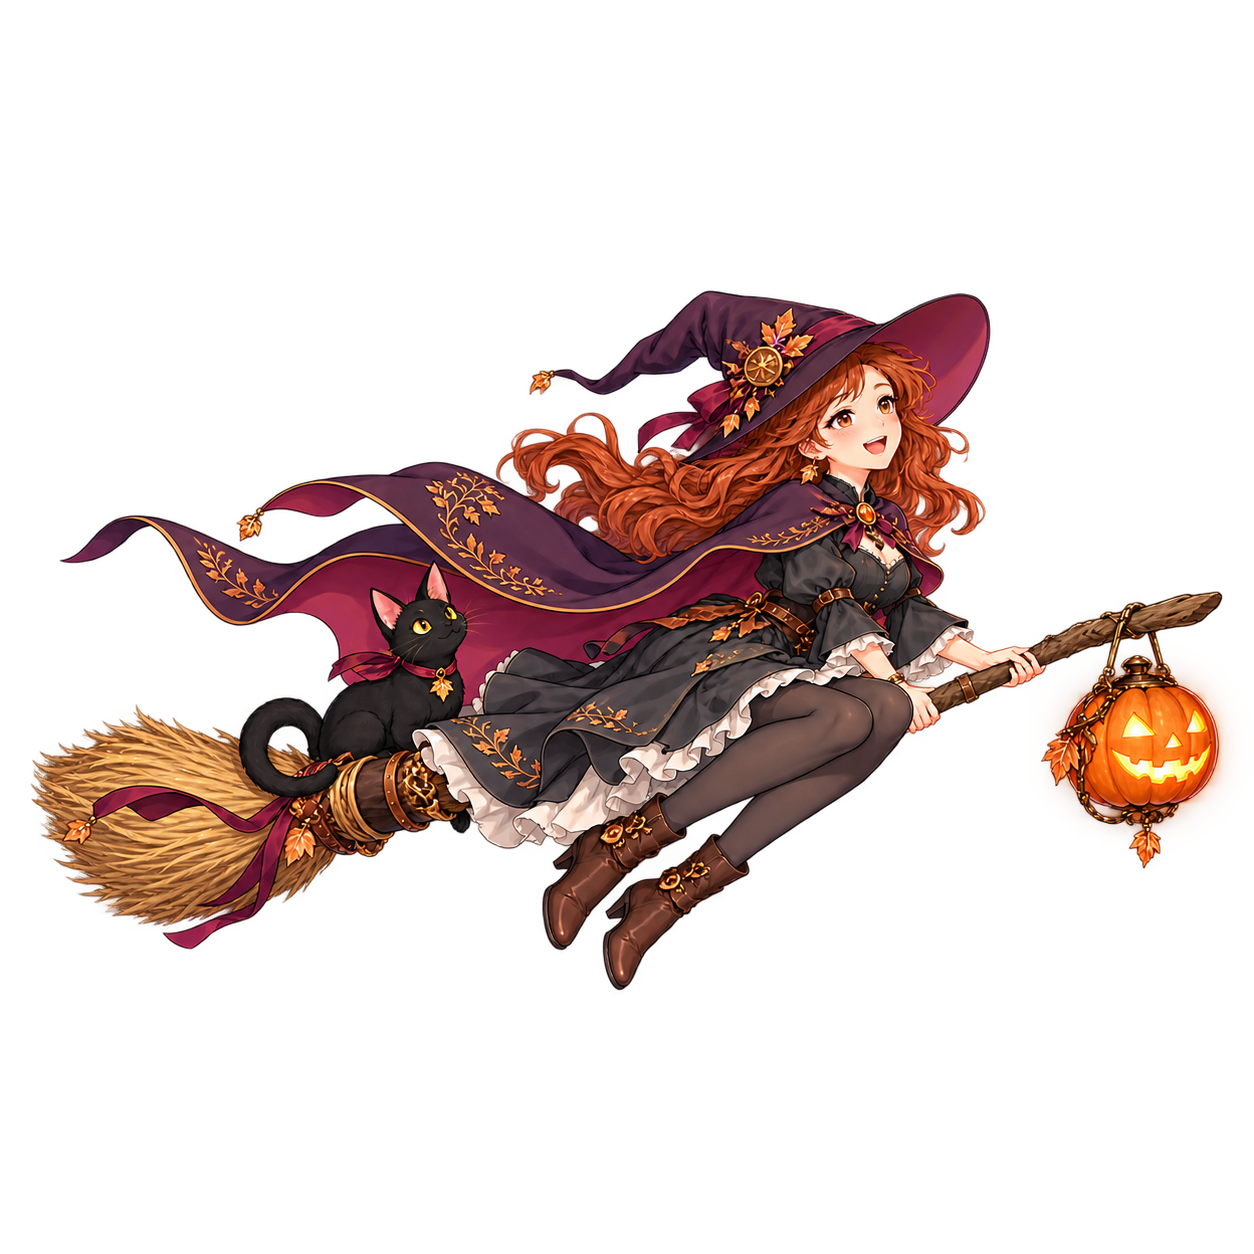
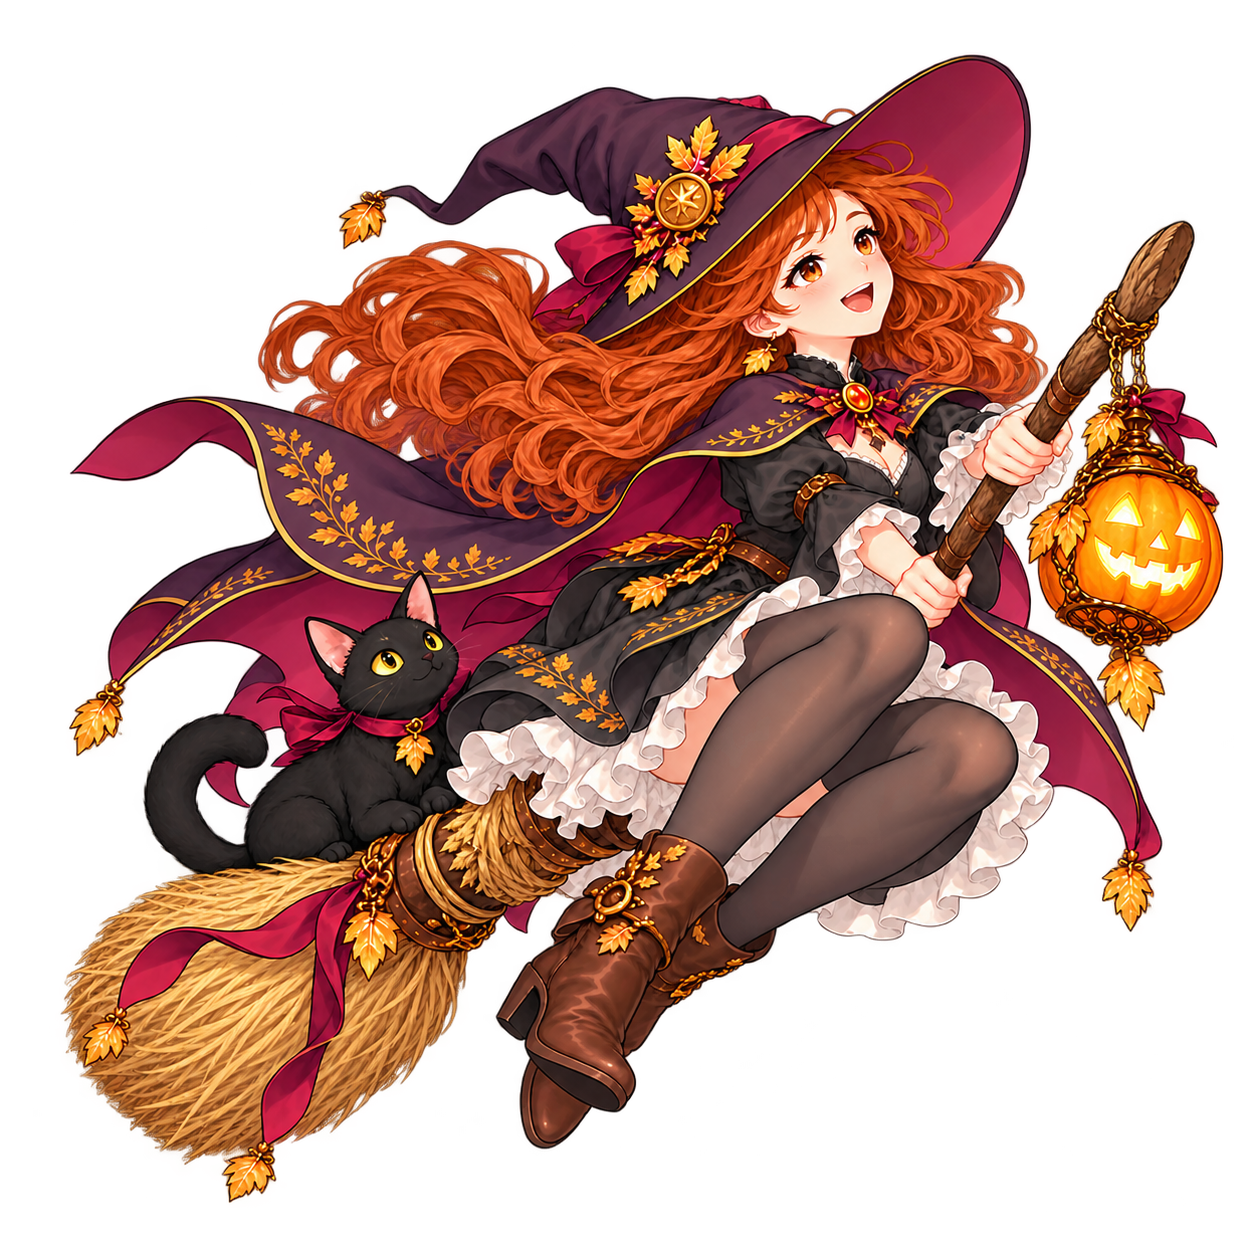
fix: redraw Halloween startup artwork for compact framing (#100)

diff --git a/src/halloween-lantern-walk/DESIGN.md b/src/halloween-lantern-walk/DESIGN.md
@@ -1,11 +1,13 @@
 # Halloween Lantern Walk
 
-Version 1.0.1. A cheerful adult witch rides a broom with a black cat and hanging pumpkin lantern. Flowing plum cloth and warm pumpkin light make a connected Halloween action scene. Refined two-dimensional anime illustration, drawn contours and painted/cel-shaded color.
+Version 1.0.2. The Home broom-riding witch and autumn wallpapers are retained. A separate compact, foreshortened broom pose now serves launch/empty. Its nearly square silhouette uses the startup box more effectively than the previous horizontal Home-style illustration; the complete hat, lantern, cat and boots remain inside the transparent canvas.
 
-Home uses a square transparent contain-fit vignette. Actual alpha bounds at 10% threshold: `993x581+143+269` on `1254x1254`. All solid subjects end before 68% of the image height, ahead of the native cover bottom feather. Top and side padding protect the hat, cape, pumpkin, reindeer and sleigh. Launch and empty states use the complete, larger square drawing. Both widths and both modes explicitly declare these assets; only the character-free wallpaper is cover-cropped.
+Launch uses explicit compact/regular contain declarations in both modes. The App startup resolver selects the asset URI and uses its own contain box, so the composition and alpha padding are authored in the actual image rather than relying on focalPoint to repair it. Measured 10% alpha bounds: `1164x1149+60+54` on `1254x1254`.
 
-Home title/logo are hidden. Light/dark × compact/regular composer background and decoration are null. Interface and terminal fill opacity remain 1. Palette, materials and all eight template glyphs remain unchanged; parameters has an independent adjustment icon.
+Home remains the existing safe-margin square contain image in both widths and modes; its bytes are unchanged. No ambient effect is added.
+
+Home title/logo remain hidden; composer background and decoration resolve to null in light/dark × compact/regular. No outset is authored. UI and terminal fill opacity stay 1. Eight template icons, independent parameters shape and icon directions are unchanged.
 
 ## Review coverage
 
-Source artwork, actual alpha margins and gallery covers were visually inspected. CLI 2.4.1 source/preview validation and packaging are checked separately. No device automation or mobile-dev was used for this revision; native layout and keyboard coverage are not claimed.
+Dedicated launch images and source Home paintings were visually inspected. Small 200px light/dark launch composites and compact/regular cover crops are source-art review, not native screenshots. CLI validation, contrast and full source packaging are checked separately. No mobile-dev, native device automation or native transition/keyboard acceptance is claimed.

diff --git a/src/halloween-lantern-walk/PROMPTS.md b/src/halloween-lantern-walk/PROMPTS.md
@@ -32,3 +32,15 @@ Use case: lighting-weather. Input image is the EDIT TARGET, a theme-owned enviro
 ## preview.png
 
 Deterministic repository gallery compositor using final theme artwork and palette: light left, dark right, 1024×640, without App UI.
+
+## Version 1.0.2 launch and snow-scene artwork
+
+OpenAI built-in imagegen, 2026-10-17. Original theme-owned references only. Launch framing edit references its first launch concept. Christmas wide variants reference the matching compact snow scene.
+
+### halloween-launch-v2 (launch)
+
+Use case illustration-story. Create a completely NEW compact startup illustration of the SAME original adult anime witch shown in reference: auburn wavy hair, plum pointed hat and cape with copper leaf embroidery, charcoal dress, brown ankle boots, small black cat, warm carved pumpkin lantern. This is a dedicated launch sprite, NOT a Home header. Redesign pose: witch riding a broom steeply ascending toward upper right, view at a dynamic three-quarter angle so broom is foreshortened, cape sweeps down behind, knees bent, both boots visible, black cat securely perched behind her, one pumpkin lantern tied to broom. Complete coherent action, refined adult anatomy, hand-drawn clean 2D anime cel shading, no photorealism. COMPACT nearly square silhouette, no long horizontal spear/broom extending far sideways. Entire illustration fills central 80% width AND 85% height of a SQUARE canvas, only 7–10% clear margin, balanced optical center. Genuine transparent alpha outside silhouette, no scenic backdrop, background plate, oval, frame or large glow. Clean connected scene, no extra props, no letters, no logo, no UI. Keep all hat, broom, cat, lantern, hands and boots inside canvas.
+
+### halloween-launch-final (launch)
+
+Edit this exact artwork for reliable app startup framing. Keep the complete illustrated design and its style. Expand the genuinely TRANSPARENT square canvas around the WHOLE vignette, redraw any edge that previously touched canvas so nothing is truncated. The COMPLETE illustration must occupy about 82% of both canvas width/height maximum; keep at least 8% completely transparent margin on every side. Entire hat, lantern, broom, boots, cat / entire tree star, boughs, chalets and snow hill / entire fireworks, bridge and reflections must be inside this padding as applicable. Balanced optical center. Do not spread elements farther apart. Do not make a plate, backdrop, circle, rectangle or glow halo. This is startup art so keep the composition compact, no Home-specific huge bottom padding. Preserve genuine alpha, no text, no new props, polished hand-drawn 2D anime illustration.

diff --git a/src/halloween-lantern-walk/CREDITS.md b/src/halloween-lantern-walk/CREDITS.md
@@ -1,10 +1,10 @@
 # Artwork credits
 
-Original artwork directed by Muqun Theme Collection, distributed under CC-BY-4.0. The 1.0.1 illustrations were created with OpenAI built-in imagegen on 2026-10-17 using original theme-owned concepts. No external photo, actor likeness, stock image, franchise character, font or logo is included. Exact prompts and reference roles are in [PROMPTS.md](PROMPTS.md); no public generation URL exists.
+Original artwork directed by Muqun Theme Collection, CC-BY-4.0. The 1.0.2 launch/snow revisions were created with OpenAI built-in imagegen on 2026-10-17 from original theme-owned designs. No external photo, actor likeness, stock image, franchise character, font or logo is included. Exact prompts and reference roles are recorded in [PROMPTS.md](PROMPTS.md); no public generation URL exists.
 
-- `assets/character.png`: complete transparent anime action vignette for launch/empty.
-- `assets/home-safe.png`: the same composition with extra transparent Home safety margins.
-- `assets/environment-light.png` and `assets/environment-dark.png`: original character-free holiday environment paintings retained from 2026-10-16.
-- `assets/preview.png`: repository artwork/palette compositor output, light left and dark right, without simulated App controls.
+- `assets/character.png`: new compact complete transparent witch startup/empty drawing.
+- `assets/home-safe.png`: unchanged safe-margin Home action illustration.
+- `assets/environment-light.png`, `assets/environment-dark.png`: unchanged autumn environments.
+- `assets/preview.png`: artwork/palette gallery composition, 1024×640, light left/dark right, no simulated App UI.
 
-All eight `assets/icon-*.png` glyphs are unmodified CC-BY-4.0 drawings by Muqun theme author, reused from [Pine & Parchment](https://github.com/osuki-dev/muqun-themes/tree/main/src/pine-and-parchment). They use template tint. Parameters is an independent two-rail adjustment glyph with leaf handles; settings remains a separate gear. Source directions: back left, send up-right, Home arrow right.
+All eight `assets/icon-*.png` glyphs are unchanged CC-BY-4.0 drawings by Muqun theme author from [Pine & Parchment](https://github.com/osuki-dev/muqun-themes/tree/main/src/pine-and-parchment). Parameters is an independent sliders shape; settings is a separate gear. Back points left, send up-right and Home arrow right, all template-tinted.
